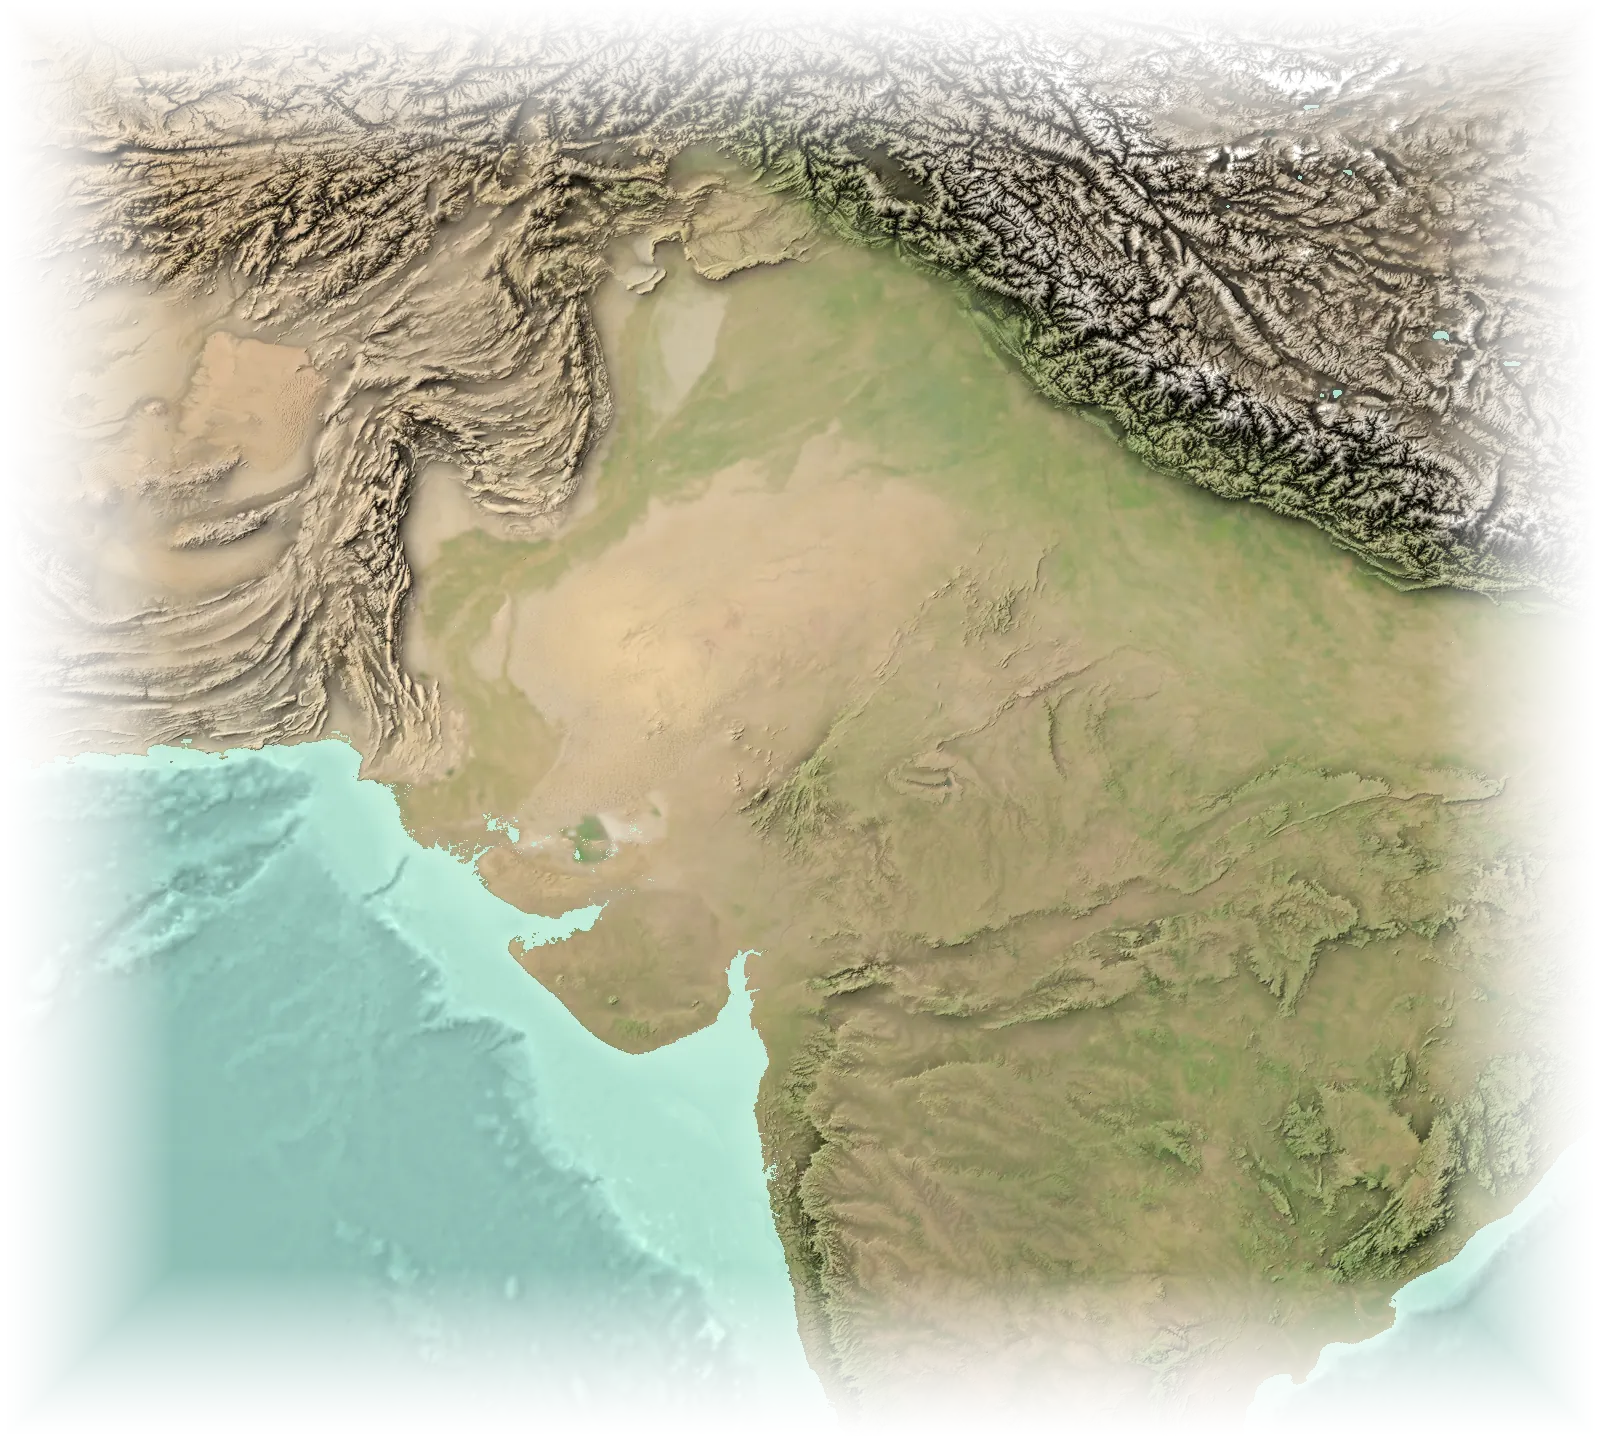
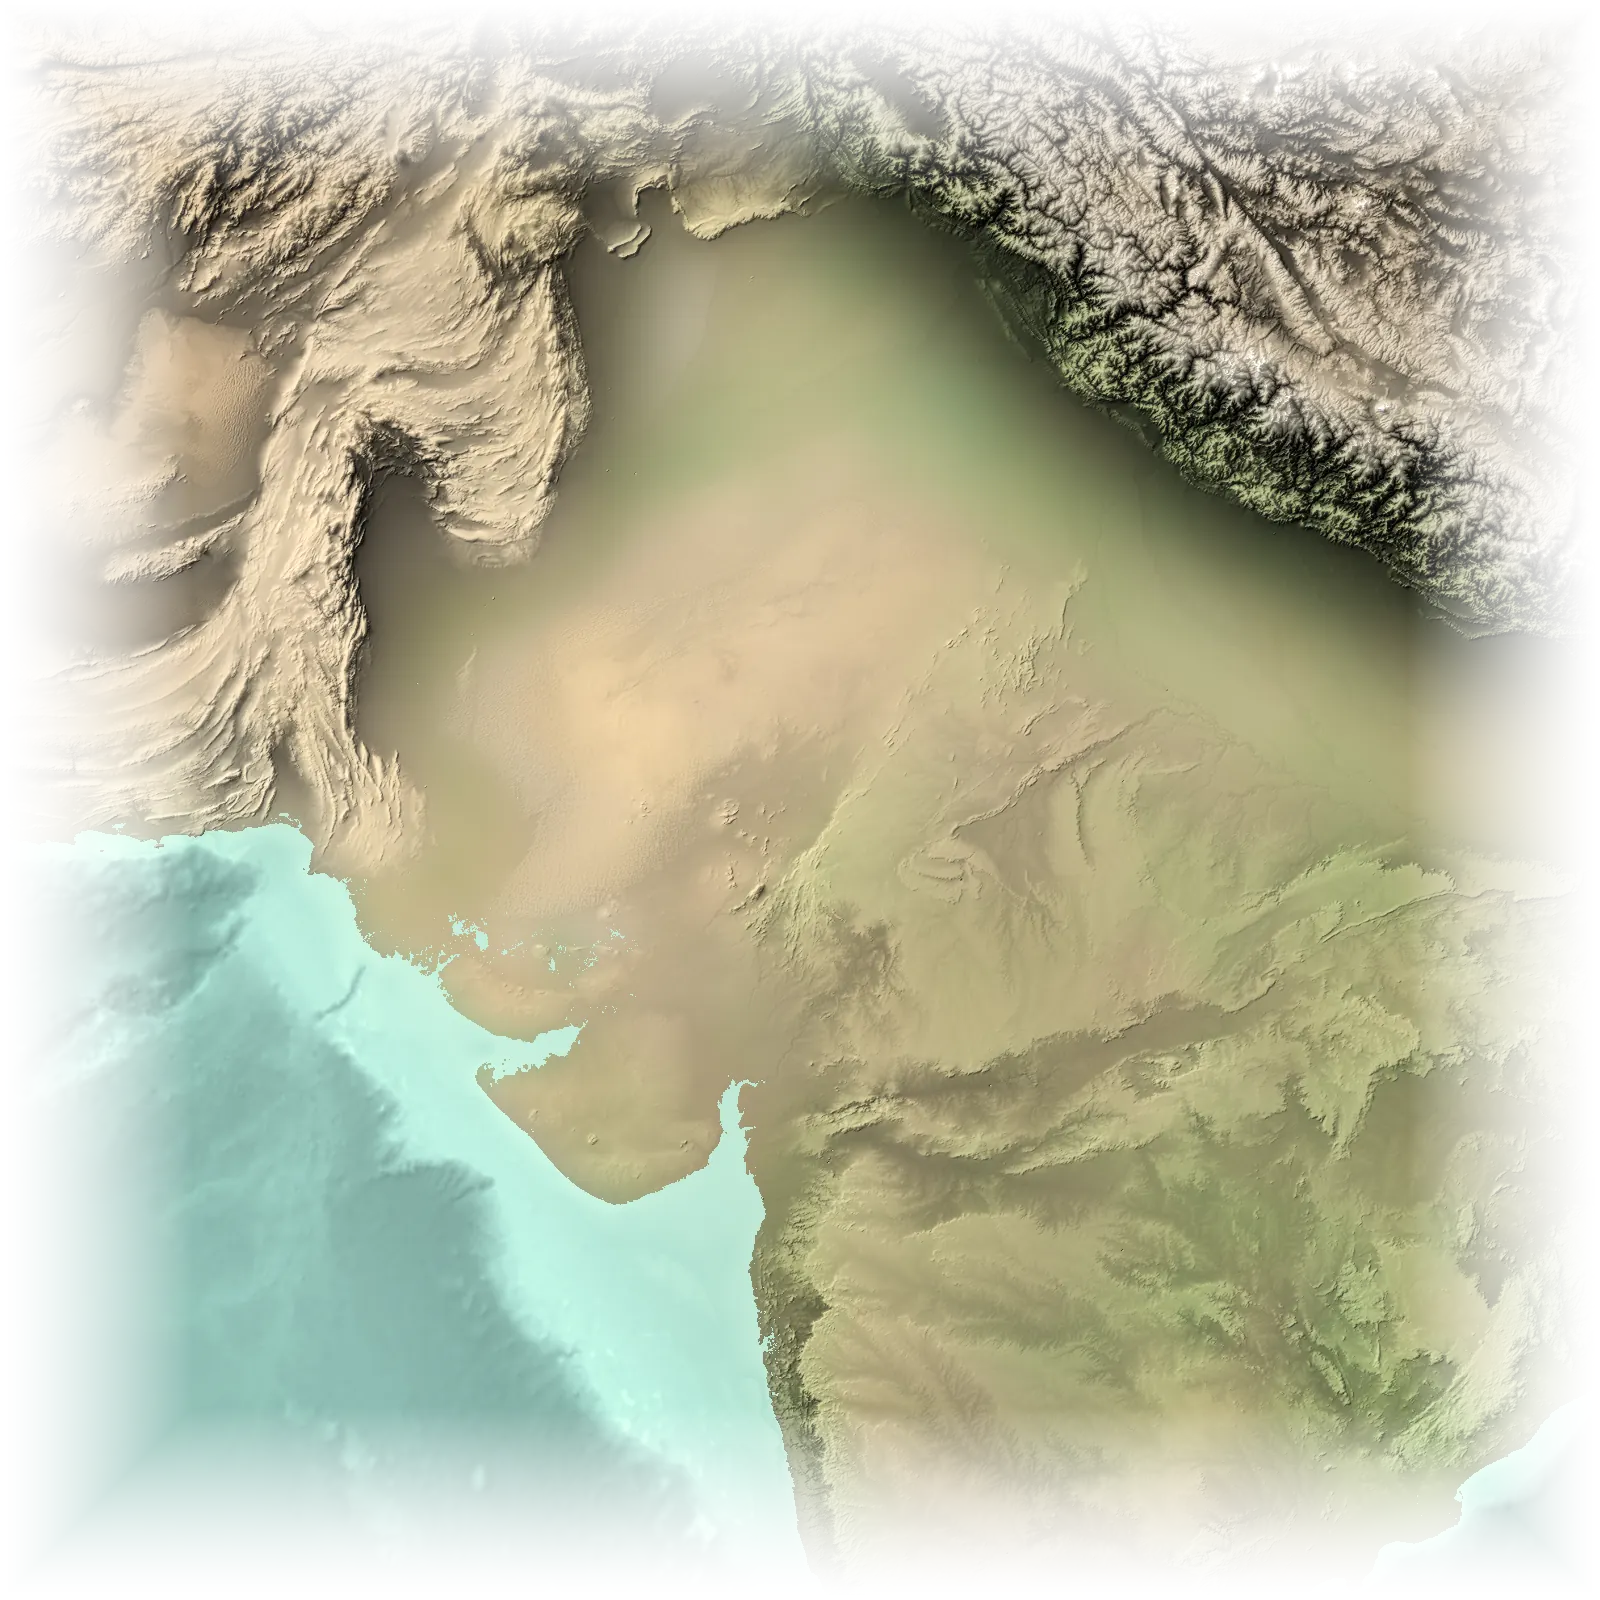
Mercator relief world in sharp tiles, Lofoten islands restored, finer relief
- The world is now built in Web Mercator (shapes match the printed reference) as a 2048 px
  overview plus 1024 px tiles of 4096 and 8192 px worlds that load only where you look.
- Close-ups are Mercator too, with boxes square in Mercator units (sharper far north).
- The near-black lake rule only applies south of 60 degrees: it was turning the dark western
  Lofoten islands into water.
- Slightly stronger fine relief on plains.

Claude-Session: https://claude.ai/code/session_01KVdNw979WxCLGLb6ytawBs

diff --git a/public/index.html b/public/index.html
@@ -7,7 +7,7 @@
 <meta name="description" content="We help you unbucket your bucket list. Zoom out to zoom in: pick a place, see where to go, what to taste and what to take away, then go.">
 <link rel="preconnect" href="https://fonts.googleapis.com">
 <link href="https://fonts.googleapis.com/css2?family=Fraunces:opsz,wght@9..144,300;9..144,600&family=Inter:wght@400;500;600&display=swap" rel="stylesheet">
-<link rel="stylesheet" href="styles.css?v=22">
+<link rel="stylesheet" href="styles.css?v=23">
 </head>
 <body>
 
@@ -76,13 +76,13 @@
   <div class="sheet" id="sheet" role="dialog" aria-modal="true"></div>
 </aside>
 
-<script src="facts.js?v=22"></script>
-<script src="media/photos.js?v=22"></script>
-<script src="offers.js?v=22"></script>
-<script src="routes.js?v=22"></script>
-<script src="wildlife.js?v=22"></script>
-<script src="bucket.js?v=22"></script>
-<script src="app.js?v=22"></script>
-<script src="map.js?v=22"></script>
+<script src="facts.js?v=23"></script>
+<script src="media/photos.js?v=23"></script>
+<script src="offers.js?v=23"></script>
+<script src="routes.js?v=23"></script>
+<script src="wildlife.js?v=23"></script>
+<script src="bucket.js?v=23"></script>
+<script src="app.js?v=23"></script>
+<script src="map.js?v=23"></script>
 </body>
 </html>

diff --git a/tools/build_relief.py b/tools/build_relief.py
@@ -8,7 +8,7 @@ import numpy as np
 from PIL import Image, ImageFilter
 
 S = os.path.dirname(os.path.abspath(__file__))
-BASE = '/home/user/Unbucketlist.co/public/data/'
+BASE = os.environ.get('RELIEF_OUT', '/home/user/Unbucketlist.co/public/data/')   # set RELIEF_OUT to build somewhere else first
 OUT = BASE
 CACHE = S + '/terrain/'
 D = json.load(open(S + '/mapdata.json'))
@@ -149,7 +149,7 @@ LOOKS = {
  # sand deserts, tan uplands, taupe plateaus, white ice; crisp, strong hillshade with warm light and brown-olive shade
  'relief': dict(mode='relief', dry='#e0c193', mid='#a3ab7c', wet='#6f8559', boreal='#5f6a52', dune='#e8cc9c', rock='#a3866a', high='#908b80',
                 peak='#bdb8b0', snow='#ffffff', warm='#fff4e0', cool='#2e2c24', sea=['#c4eedb', '#b3e3d3', '#a6d5c9', '#99c9be', '#8ebeb4'],
-                sat=.94, lift=0, tint=.35, sea_relief=.2, exag_world=24, exag_crop=2.6, local=.45, world_z=5, world_sizes=[(1024, 1024), (4096, 3072)],
+                sat=.94, lift=0, tint=.35, sea_relief=.2, exag_world=24, exag_crop=2.6, local=.55, world_z=5, world_sizes=[(1024, 1024), (4096, 3072)],
                 cast=.5, cast_sea=.32, ao=.38, sun_alt=24, bm_world_z=4,
                 grade=dict(w=.9, l0=47, l1=.5, c=1.0, cg=.35, olive=3, lg=8)),
  # golden hour: emerald and honey, coral light, plum shadows, turquoise lagoons, sapphire sea
@@ -167,7 +167,19 @@ DEST_GREEN = {'ladakh': .08, 'rajasthan': .1, 'morocco': .15, 'santorini': .2, '
               'serengeti': .45, 'lofoten': .5, 'peru': .55, 'newzealand': .7, 'kyoto': .85, 'bali': .95}
 
 _LANDMASK = None
-def landmask(lon, lat):
+def decode_rings(rs):
+    out = []
+    for a in rs:
+        x = y = 0; pts = []; off = 0; px = None
+        for i in range(0, len(a), 2):
+            x += a[i]; y += a[i + 1]; X = x / 100 + off
+            if px is not None and X - px > 180: off -= 360; X -= 360
+            elif px is not None and X - px < -180: off += 360; X += 360
+            px = X; pts.append((X, y / 100))
+        out.append(pts)
+    return out
+
+def landmask(lon, lat, extra=(), base=True):
     # Natural Earth coastlines rasterised onto this grid (union of rings)
     global _LANDMASK
     if _LANDMASK is None:
@@ -183,7 +195,7 @@ def landmask(lon, lat):
     H, W = lon.shape; x0, x1, y0, y1 = lon[0, 0], lon[0, -1], lat[0, 0], lat[-1, 0]
     from PIL import ImageDraw
     im = Image.new('L', (W, H), 0); d = ImageDraw.Draw(im)
-    for pts in _LANDMASK:
+    for pts in (list(_LANDMASK) if base else []) + list(extra):
         xs = [p[0] for p in pts]; ys = [p[1] for p in pts]
         if max(xs) < min(x0, x1) or min(xs) > max(x0, x1) or max(ys) < min(y0, y1) or min(ys) > max(y0, y1): continue
         y0m, y1m = float(merc_y(y0)), float(merc_y(y1))
@@ -239,7 +251,7 @@ def colourise(elev, lon, lat, exag, palette=None, patches=(), alb=None, gw=None,
         known = (np.abs(lat) < 84.5)[..., None]
         c = np.where(known, mix(c, gc, np.full(elev.shape, PAL['grade']['w'], np.float32)), c)
         # water inside the land (Great Lakes, Baikal, Victoria...): take the sea's colour
-        LAKE = (((L0[..., 2] < -6) & (L0[..., 0] < 45)) | (L0[..., 0] < 6)) & (elev > 0) & (np.abs(lat) < 84.5)  # bluish, or near-black (Victoria, Biwa)
+        LAKE = (((L0[..., 2] < -6) & (L0[..., 0] < 45)) | ((L0[..., 0] < 6) & (np.abs(lat) < 60))) & (elev > 0) & (np.abs(lat) < 84.5)  # bluish, or near-black (Victoria, Biwa)
         LAKE = smooth(LAKE.astype(np.float32), 1) > .5
     if palette is not None and alb is None:  # each place leans to its own character (arid Ladakh, lush Bali), in this look's colours
         pc = hexrgb(PAL['dry']) * (1 - palette) + hexrgb(PAL['wet']) * palette
@@ -381,11 +393,11 @@ def crops(only=None):
     for rid, r in D['ROUTES'].items():
         if only and rid not in only: continue
         la = [s[1] for s in r['stops']]; lo = [s[2] for s in r['stops']]
-        cx, cy = (min(lo) + max(lo)) / 2, (min(la) + max(la)) / 2
-        span = max(max(lo) - min(lo), max(la) - min(la), .08)
+        my = [float(merc_y(v)) for v in la]
+        cx, cym = (min(lo) + max(lo)) / 2, (min(my) + max(my)) / 2
+        span = max(max(lo) - min(lo), max(my) - min(my), .08)
         half = span * 2.2 + .15
-        hx = half / max(.3, math.cos(math.radians(cy)))  # wider in degrees of longitude at high latitude
-        x0, x1, y0, y1 = cx - hx, cx + hx, cy - half, cy + half
+        x0, x1, y0, y1 = cx - half, cx + half, float(inv_merc(cym - half)), float(inv_merc(cym + half))
         W = 1600; H = int(round(W * float(merc_y(y1) - merc_y(y0)) / (x1 - x0)))
         H = max(400, min(2400, H))
         degpx = (x1 - x0) / W
